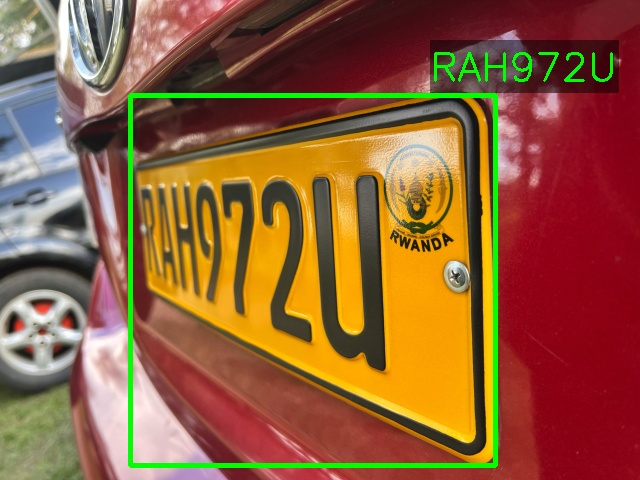
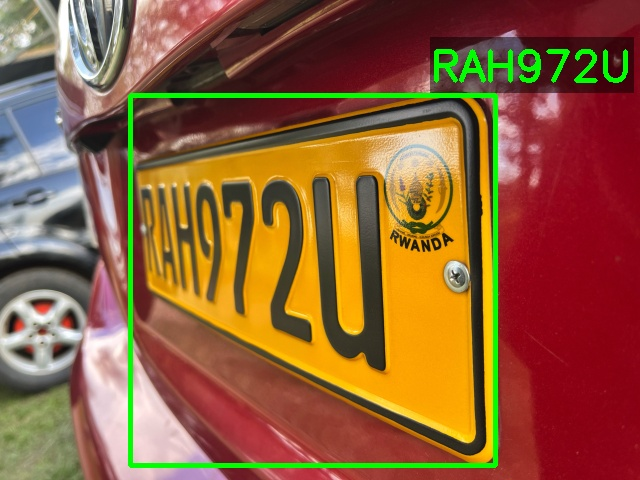
Increased text size

Changed region(s): [[0.6562, 0.0625, 1.0, 0.2188]]

diff --git a/Basic_Operations/11_assignment.py b/Basic_Operations/11_assignment.py
@@ -15,8 +15,8 @@ cv2.rectangle(resized_image, (130, 95), (495, 465), (0, 255, 0), 4)
 # Define text properties
 text = 'RAH972U'
 font = cv2.FONT_HERSHEY_SIMPLEX
-font_scale = 1.3
-font_thickness = 2
+font_scale = 1.4
+font_thickness = 3
 text_color = (0, 255, 0)
 
 # Get text size
